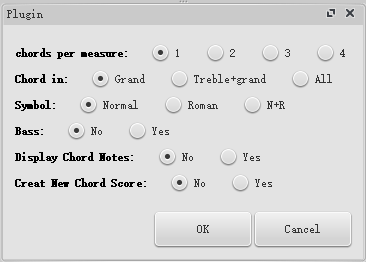
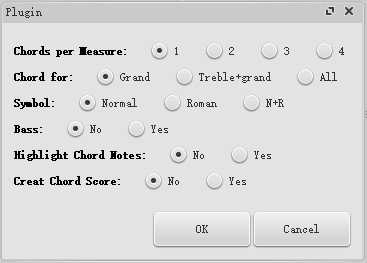
Add files via upload

diff --git a/chordIdentifier.qml b/chordIdentifier.qml
@@ -741,7 +741,7 @@ MuseScore {
       RowLayout {
         id: chrodMeasure
         spacing: 20
-        Text  { text:  "  chords per measure:"; font.bold: true }
+        Text  { text:  "  Chords per Measure:"; font.bold: true }
         property list<RadioButton> buttonList: [
           RadioButton { parent: chrodMeasure;text: "4"; exclusiveGroup: rowA },
           RadioButton { parent: chrodMeasure;text: "3"; exclusiveGroup: rowA },
